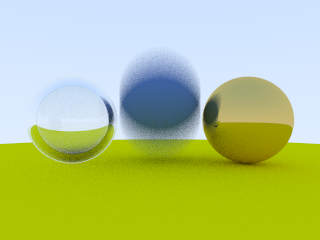
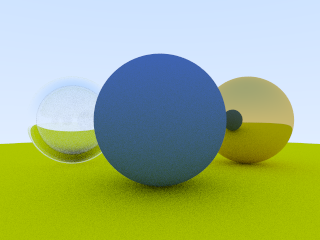
Something.

diff --git a/HelloWorld/HelloWorld.cpp b/HelloWorld/HelloWorld.cpp
@@ -5,42 +5,73 @@
 #include "HittableList.hpp"
 #include "Sphere.hpp"
 
+using std::make_shared;
+using std::shared_ptr;
+
 int main()
 {
     HittableList world;
 
-    auto material_ground = std::make_shared<Lambertian>(Color(0.8, 0.8, 0.0));
-    auto material_center = std::make_shared<Lambertian>(Color(0.1, 0.2, 0.5));
-    auto material_left = std::make_shared<Dielectric>(1.50);
-    auto material_bubble = std::make_shared<Dielectric>(1.00 / 1.50);
-    auto material_right = std::make_shared<Metal>(Color(0.8, 0.6, 0.2), 0.0);
+    auto ground_material = make_shared<Lambertian>(Color(0.5, 0.5, 0.5));
+    world.Add(make_shared<Sphere>(Point3(0, -1000, 0), 1000, ground_material));
 
-    world.Add(std::make_shared<Sphere>(Point3(0.0, -100.5, -1.0), 100.0, material_ground));
+    for (int a = -11; a < 11; a++) {
+        for (int b = -11; b < 11; b++) {
+            auto choose_mat = RandomDouble();
+            Point3 center(a + 0.9 * RandomDouble(), 0.2, b + 0.9 * RandomDouble());
 
-    const auto center_0 = Point3(0.0, 0.0, -1.2);
-    const auto center_1 = Point3(0.0, 0.4, -1.2);
-    world.Add(std::make_shared<Sphere>(center_0, center_1, 0.5, material_center));
+            if ((center - Point3(4, 0.2, 0)).Length() > 0.9) {
+                shared_ptr<Material> sphere_material;
 
-    world.Add(std::make_shared<Sphere>(Point3(-1.0, 0.0, -1.0), 0.5, material_left));
-    world.Add(std::make_shared<Sphere>(Point3(-1.0, 0.0, -1.0), 0.4, material_bubble));
-    world.Add(std::make_shared<Sphere>(Point3(1.0, 0.0, -1.0), 0.5, material_right));
+                if (choose_mat < 0.8) {
+                    // diffuse
+                    auto albedo = Color::Random() * Color::Random();
+                    sphere_material = make_shared<Lambertian>(albedo);
+                    auto center2 = center + Vec3(0, RandomDouble(0, .5), 0);
+                    world.Add(make_shared<Sphere>(center, center2, 0.2, sphere_material));
+                }
+                else if (choose_mat < 0.95) {
+                    // metal
+                    auto albedo = Color::Random(0.5, 1);
+                    auto fuzz = RandomDouble(0, 0.5);
+                    sphere_material = make_shared<Metal>(albedo, fuzz);
+                    world.Add(make_shared<Sphere>(center, 0.2, sphere_material));
+                }
+                else {
+                    // glass
+                    sphere_material = make_shared<Dielectric>(1.5);
+                    world.Add(make_shared<Sphere>(center, 0.2, sphere_material));
+                }
+            }
+        }
+    }
+
+    auto material1 = make_shared<Dielectric>(1.5);
+    world.Add(make_shared<Sphere>(Point3(0, 1, 0), 1.0, material1));
+
+    auto material2 = make_shared<Lambertian>(Color(0.4, 0.2, 0.1));
+    world.Add(make_shared<Sphere>(Point3(-4, 1, 0), 1.0, material2));
+
+    auto material3 = make_shared<Metal>(Color(0.7, 0.6, 0.5), 0.0);
+    world.Add(make_shared<Sphere>(Point3(4, 1, 0), 1.0, material3));
 
     Camera camera;
-    camera.image_filename = "output/output_2025.png";
 
-    camera.image_width  = 320;
-    camera.image_height = 240;
+    camera.image_filename = "output/output_long_render_many_spheres_with_motion_blur.png";
 
-    camera.origin     = Point3(0, 0, 2);
-    //camera.direction  = UnitVector(-camera.origin);
-    //camera.vup        = UnitVector(Vec3(1, 1, 0));
-    camera.v_fov      = 50;
+    camera.image_width  = 400;
+    camera.image_height = (size_t)((double)camera.image_width / (16.0 / 9.0));
 
-    /*camera.defocus_angle  = 0.6;
-    camera.focus_distance = 10;*/
+    camera.samples_per_pixel = 100;
+    camera.max_depth         = 50;
 
-    camera.samples_per_pixel = 128;
-    camera.max_depth         = 8;
+    camera.origin       = Point3(13, 2, 3);
+    camera.direction    = UnitVector(-camera.origin);
+    camera.direction_up = Vec3(0, 1, 0);
+    camera.fov_vertical = 20;
+
+    camera.defocus_angle  = 0.6;
+    camera.focus_distance = 10;
 
     camera.Render(world);
 

diff --git a/HelloWorld/Camera.hpp b/HelloWorld/Camera.hpp
@@ -23,8 +23,8 @@ public:
 
     Point3 origin            = Point3(0, 0, 0);
     Vec3   direction         = Vec3(0, 0, -1);
-    Vec3   vup               = Vec3(0, 1, 0);    // Camera-relative "up" direction
-    double v_fov             = 90;               // Vertical view angle (field of view)
+    Vec3   direction_up               = Vec3(0, 1, 0);    // Camera-relative "up" direction
+    double fov_vertical             = 90;               // Vertical view angle (field of view)
 
     double defocus_angle     = 0;                // Variation angle of rays through each pixel
     double focus_distance    = 10;               // Distance from camera origin to plane of perfect focus
@@ -89,14 +89,14 @@ private:
         this->aspect_ratio = (double)this->image_width / (double)this->image_height;
 
         // Viewport dimensions.
-        const auto theta = DegreesToRadians(this->v_fov);
+        const auto theta = DegreesToRadians(this->fov_vertical);
         const auto h = std::tan(theta / 2);
         const auto viewport_height = 2 * h * this->focus_distance;
         const auto viewport_width = viewport_height * this->aspect_ratio;
 
         // Calculate u, v, w.
         this->w = -this->direction;
-        this->u = UnitVector(Cross(this->vup, this->w));
+        this->u = UnitVector(Cross(this->direction_up, this->w));
         this->v = Cross(this->w, this->u);
 
         // Calculate the vectors across the horizontal and down the vertical viewport edges.

diff --git a/HelloWorld/Vec3.hpp b/HelloWorld/Vec3.hpp
@@ -60,6 +60,16 @@ public:
         constexpr auto s = 1e-8;
         return (std::abs(e[0]) < s) && (std::abs(e[1]) < s) && (std::abs(e[2]) < s);
     }
+
+    static Vec3 Random()
+    {
+        return Vec3(RandomDouble(), RandomDouble(), RandomDouble());
+    }
+
+    static Vec3 Random(const double min, const double max)
+    {
+        return Vec3(RandomDouble(min, max), RandomDouble(min, max), RandomDouble(min, max));
+    }
 };
 
 using Point3 = Vec3;
@@ -118,21 +128,11 @@ inline Vec3 UnitVector(const Vec3& v)
     return v / v.Length();
 }
 
-Vec3 Random()
-{
-    return Vec3(RandomDouble(), RandomDouble(), RandomDouble());
-}
-
-Vec3 Random(const double min, const double max)
-{
-    return Vec3(RandomDouble(min, max), RandomDouble(min, max), RandomDouble(min, max));
-}
-
 inline Vec3 RandomUnitVector()
 {
     while (true)
     {
-        auto p = Random(-1, 1);
+        auto p = Vec3::Random(-1, 1);
         const auto lensq = p.LengthSquared();
         if (lensq > 1e-160 && lensq <= 1)
         {
